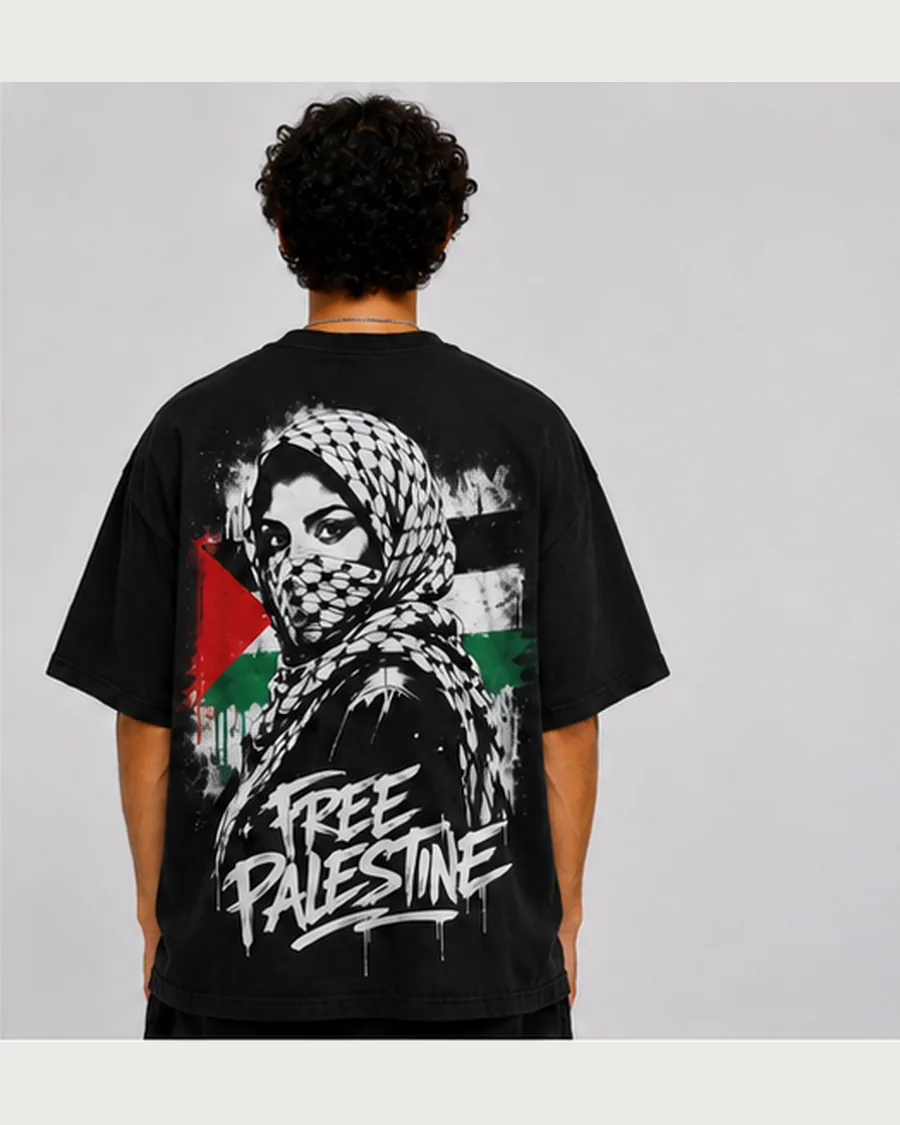
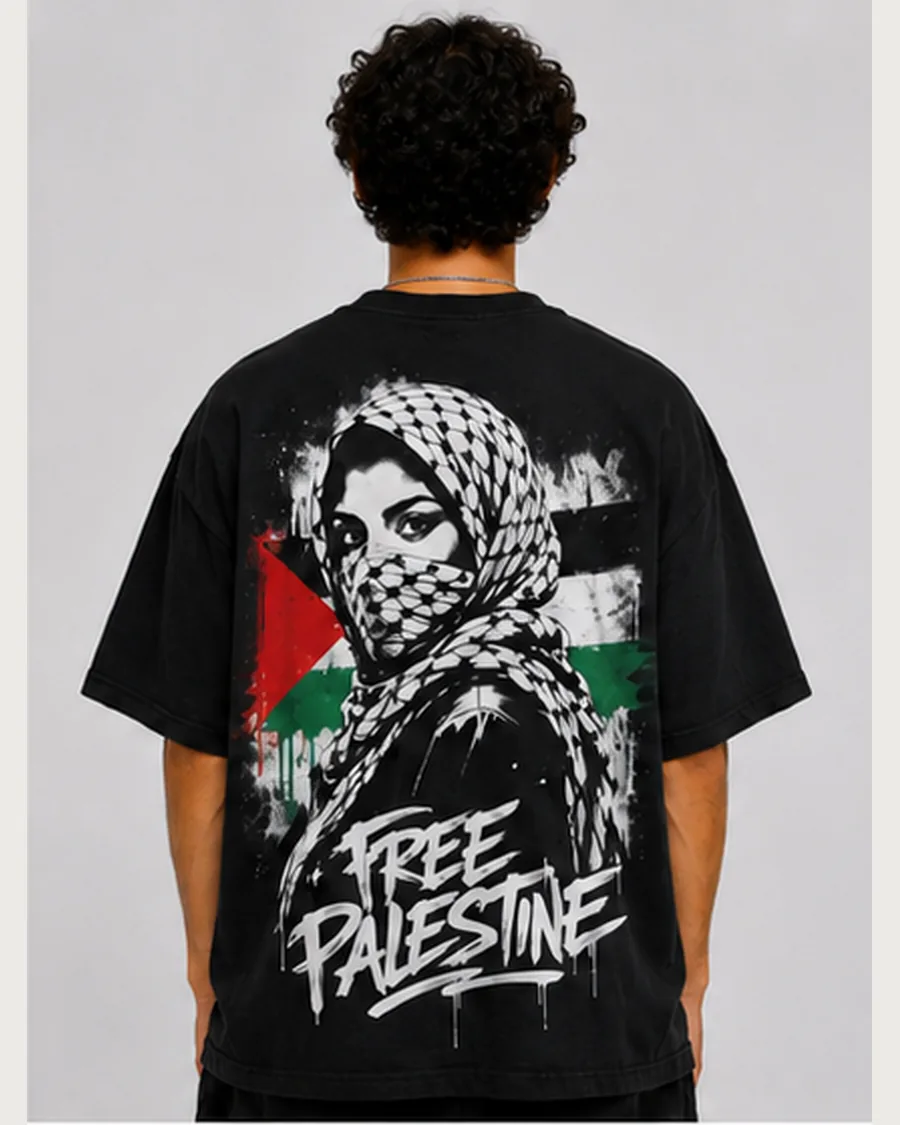
fix(free-palestine): re-corte de las espaldas (la lámina 4.5 venía mal)
Juan corrigió MATERIAL/Camisas/Coleccion Fundadores/4.5.png. Reprocesada la
grilla; solo cambiaron hombre-espalda y mujer-espalda (los frontales/laterales
salieron idénticos). Verificado en la ficha: encuadre completo, sin imágenes
rotas. SW cache → v10.

diff --git a/public/sw.js b/public/sw.js
@@ -10,8 +10,9 @@
    v6: pieza 17 (Green Afro Tiki) + color de filtro Celeste.
    v7: Guns & Roses con prenda sola por corte (oversize H / crop M).
    v8: pieza 18 (Eternal Beauty) + música al primer gesto también en celular.
-   v9: fotos de modelo nuevas de Free Palestine (mismo nombre, contenido nuevo). */
-const CACHE = "babuinos-v9";
+   v9: fotos de modelo nuevas de Free Palestine (mismo nombre, contenido nuevo).
+   v10: re-corte de las espaldas de Free Palestine (la lámina 4.5 venía mal). */
+const CACHE = "babuinos-v10";
 const OFFLINE_URLS = ["/", "/icons/icon-192.png", "/icons/icon-512.png"];
 
 // Pre-cache a minimal app shell so the home opens even without connection.
